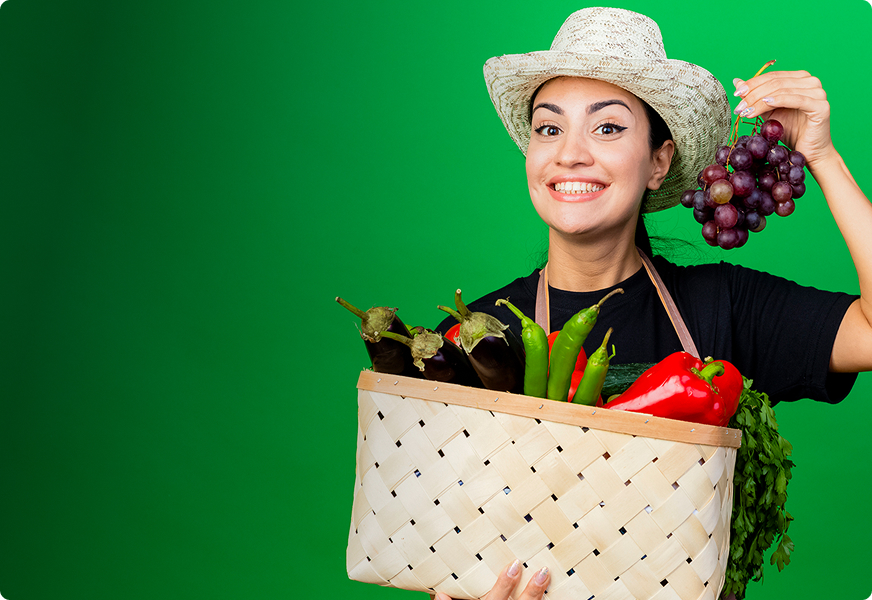
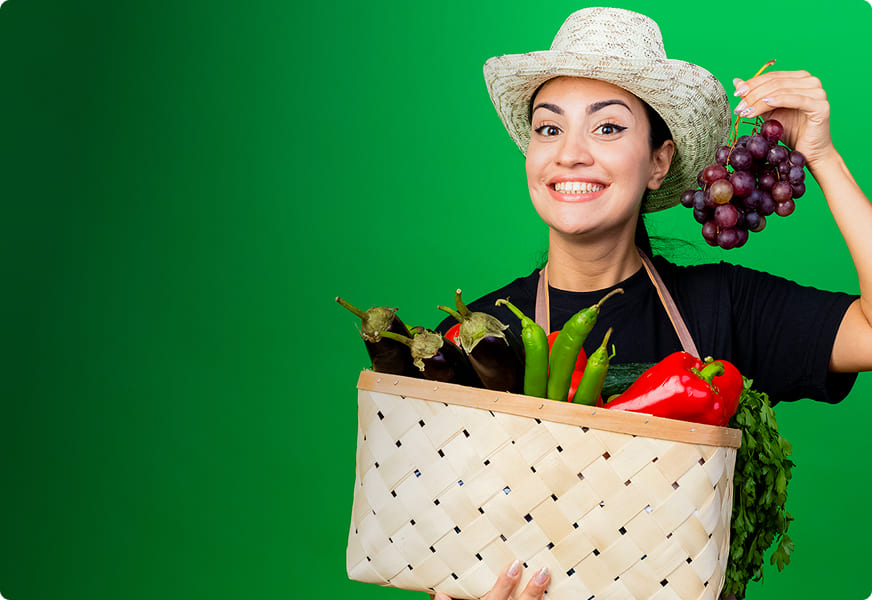
commit

diff --git a/components/AppHomeBanner/AppHomeBanner.scss b/components/AppHomeBanner/AppHomeBanner.scss
@@ -50,13 +50,13 @@
         font-family: $font-primary;
         font-size: $font-size-heading-big;
         font-weight: $font-weight-semibold;
-        color: $color-white;
+        color: $color-gray-40;
     }
 
     &__offer-wrapper {
         margin-top: 28px;
         padding-left: 12px;
-        border-left: 2px solid $color-green-bright;
+        border-left: 2px solid $color-green-400;
     }
 
     &__offer {
@@ -69,7 +69,7 @@
         font-family: $font-primary;
         font-size: $font-size-xl;
         font-weight: $font-weight-medium;
-        color: $color-white;
+        color: $color-gray-40;
     }
 
     &__offer-value {
@@ -77,8 +77,8 @@
         font-family: $font-primary;
         font-size: $font-size-xl;
         font-weight: $font-weight-semibold;
-        color: $color-white;
-        background-color: $color-orange;
+        color: $color-gray-40;
+        background-color: $color-orange-500;
         border-radius: 5px;
     }
 
@@ -87,7 +87,7 @@
         font-family: $font-primary;
         font-size: $font-size-sm;
         font-weight: $font-weight-regular;
-        color: $color-white;
+        color: $color-gray-40;
     }
 
     &__button-organic {
@@ -95,8 +95,8 @@
         align-self: flex-start;
 
         &:hover {
-            color: $color-white;
-            background-color: $color-green-sucsess;
+            color: $color-gray-40;
+            background-color: $color-green-500;
         }
     }
 
@@ -134,7 +134,7 @@
         margin-top: 24px;
         
         &:hover {
-            color: $color-green-dark;
+            color: $color-green-600;
             background-color: transparent;
         }
     }
@@ -149,7 +149,7 @@
         font-family: $font-primary;
         font-size: $font-size-sm;
         font-weight: $font-weight-medium;
-        color: $color-white;
+        color: $color-gray-40;
         letter-spacing: 2px;
     }
 
@@ -159,14 +159,14 @@
         font-family: $font-primary;
         font-size: $font-size-heading;
         font-weight: $font-weight-semibold;
-        color: $color-white;
+        color: $color-gray-40;
     }
 
     &__button-deal {
         margin-top: 24px;
         
         &:hover {
-            color: $color-white;
+            color: $color-gray-40;
             background-color: transparent;
         }
     }

diff --git a/components/AppHomeBanner/AppHomeBanner.vue b/components/AppHomeBanner/AppHomeBanner.vue
@@ -8,12 +8,12 @@ import AppButton from '../UI/AppButton.vue';
             <div class="home-banner__card">
                 <img 
                     src="@/assets/images/banner-big.jpg" 
-                    alt="Big banner" 
+                    alt="Home banner" 
                     class="home-banner__image"
                 >
                 <div class="home-banner__content home-banner__content-organic">
                     <h2 class="home-banner__title-organic">
-                        Fresh & Healthy Organic Food
+                        Fresh &amp;&nbsp;Healthy Organic Food
                     </h2>
                     <div class="home-banner__offer-wrapper">
                         <div class="home-banner__offer">
@@ -31,7 +31,7 @@ import AppButton from '../UI/AppButton.vue';
                     <AppButton 
                         class="home-banner__button-organic"
                         text="Shop now"
-                        :has-wrapper="true"
+                        has-wrapper
                     />
                 </div>
             </div>
@@ -55,7 +55,6 @@ import AppButton from '../UI/AppButton.vue';
                         <AppButton 
                             class="home-banner__button-summer"
                             text="Shop Now"
-                            :has-wrapper="false"
                         />
                     </div>
                 </div>
@@ -75,7 +74,6 @@ import AppButton from '../UI/AppButton.vue';
                         <AppButton 
                             class="home-banner__button-deal"
                             text="Shop Now"
-                            :has-wrapper="false"
                         />
                     </div>
                 </div>

diff --git a/components/UI/AppButton.vue b/components/UI/AppButton.vue
@@ -4,7 +4,7 @@ defineProps({
         type: String,
         required: true,
     },
-    hasWrapper: {
+    filled: {
         type: Boolean,
         default: false,
     },
@@ -15,8 +15,10 @@ const emit = defineEmits(['click']);
 
 <template>
     <button 
-        class="app-button"
-        :class="{ 'app-button--wrapper': hasWrapper }"
+        :class="[
+            'app-button',
+            { 'app-button--filled': filled },
+        ]"
     >
         <span>
             {{ text }}
@@ -40,17 +42,17 @@ const emit = defineEmits(['click']);
     font-family: $font-primary;
     font-size: $font-size-m;
     font-weight: $font-weight-semibold;
-    color: $color-green-sucsess;
+    color: $color-green-500;
     background-color: transparent;
     border: 0;
-    border-radius: 53px;
+    border-radius: 52px;
     cursor: pointer;
     transition: color 0.3s ease;
 
-    &--wrapper {
+    &--filled {
         padding: 16px 40px;
-        color: $color-green-sucsess;
-        background-color: $color-white;
+        color: $color-green-500;
+        background-color: $color-gray-40;
         transition: all 0.3s ease;
     }
 

diff --git a/components/AppAdvantages/AppAdvantages.vue b/components/AppAdvantages/AppAdvantages.vue
@@ -11,13 +11,17 @@ const activeAdvantage = ref(1);
             <div
                 v-for="advantage in advantages"
                 :key="advantage.id"
-                class="home-advantages__item"
-                :class="{ 'home-advantages__item--active': activeAdvantage === advantage.id }"
+                :class="[
+                    'home-advantages__item',
+                    { 'home-advantages__item--active': activeAdvantage === advantage.id },
+                ]"
                 @click="activeAdvantage = advantage.id"
             >
                 <div 
-                    class="home-advantages__icon-wrapper"
-                    :class="{ 'home-advantages__icon-wrapper--active': activeAdvantage === advantage.id }"
+                    :class="[
+                        'home-advantages__icon-wrapper',
+                        { 'home-advantages__icon-wrapper--active': activeAdvantage === advantage.id },
+                    ]"
                 >
                     <img
                         :src="`/images/${activeAdvantage === advantage.id ? advantage.iconActive : advantage.icon}.svg`"

diff --git a/assets/styles/vars.scss b/assets/styles/vars.scss
@@ -1,6 +1,7 @@
 @import url('https://fonts.googleapis.com/css2?family=Poppins:wght@400;500;600;700&display=swap');
 
 $font-primary: 'Poppins', sans-serif;
+$font-size-xxs: 10px;
 $font-size-xs: 12px;
 $font-size-sm: 14px;
 $font-size-m: 16px;
@@ -13,8 +14,7 @@ $font-weight-medium: 500;
 $font-weight-semibold: 600;
 $font-weight-bold: 700;
 
-$color-white: #FFFFFF;
-$color-black: #000000;
+$color-gray-40: #FFFFFF;
 $color-gray-100: #E6E6E6;
 $color-gray-200: #CCCCCC;
 $color-gray-400: #999999;
@@ -22,11 +22,9 @@ $color-gray-500: #808080;
 $color-gray-600: #666666;
 $color-gray-800: #333333;
 $color-gray-900: #1A1A1A;
-
-$color-green-sucsess: #00B207;
-$color-green-dark: #2C742F;
-$color-green-bright: #84D187;
-
-$color-green-gray-50: #EDF2EE;
-
-$color-orange: #FF8A00;
+$color-gray-950: #000000;
+$color-green-50: #EDF2EE;
+$color-green-400: #84D187;
+$color-green-500: #00B207;
+$color-green-600: #2C742F;
+$color-orange-500: #FF8A00;

diff --git a/components/AppAdvantages/AppAdvantages.scss b/components/AppAdvantages/AppAdvantages.scss
@@ -3,7 +3,7 @@
 .home-advantages {
     width: 100%;
     margin-top: 30px;
-    background-color: $color-white;
+    background-color: $color-gray-40;
 
     &__container {
         display: flex;
@@ -25,7 +25,7 @@
         transition: border-color 0.3s ease;
 
         &--active {
-            border-bottom-color: $color-green-sucsess;
+            border-bottom-color: $color-green-500;
         }
     }
 
@@ -35,11 +35,11 @@
         justify-content: center;
         padding: 18px 18px;
         border-radius: 50%;
-        background-color: $color-green-gray-50;
+        background-color: $color-green-50;
         transition: background-color 0.3s ease;
 
         &--active {
-            background-color: $color-green-sucsess;
+            background-color: $color-green-500;
         }
     }
 

diff --git a/app.vue b/app.vue
@@ -3,7 +3,10 @@
 
 <template>
     <div>
+        <AppHeader />
+        <AppNavigation />
         <AppHomeBanner />
         <AppAdvantages />
+        <AppFooter />
     </div>
 </template>
